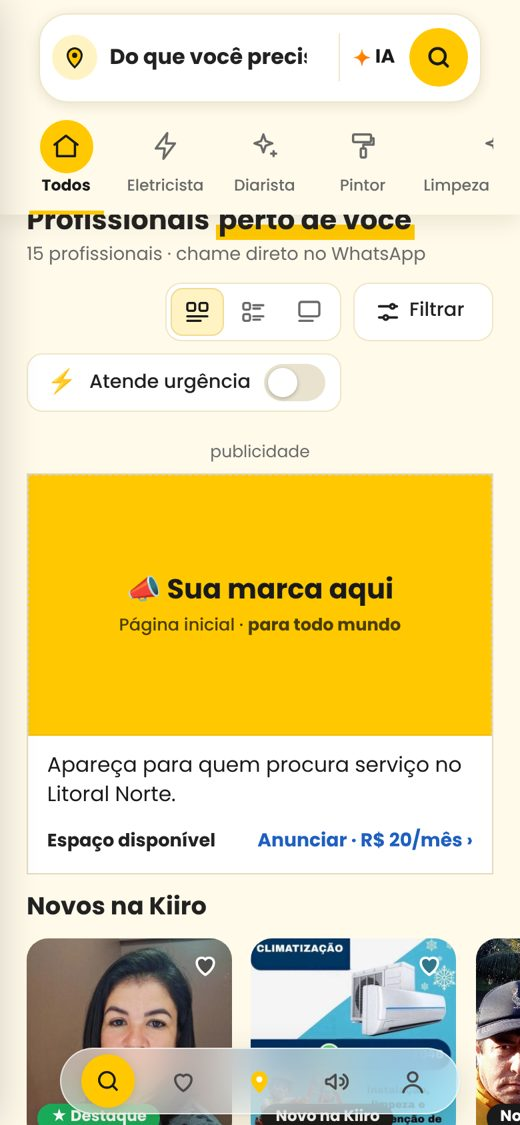
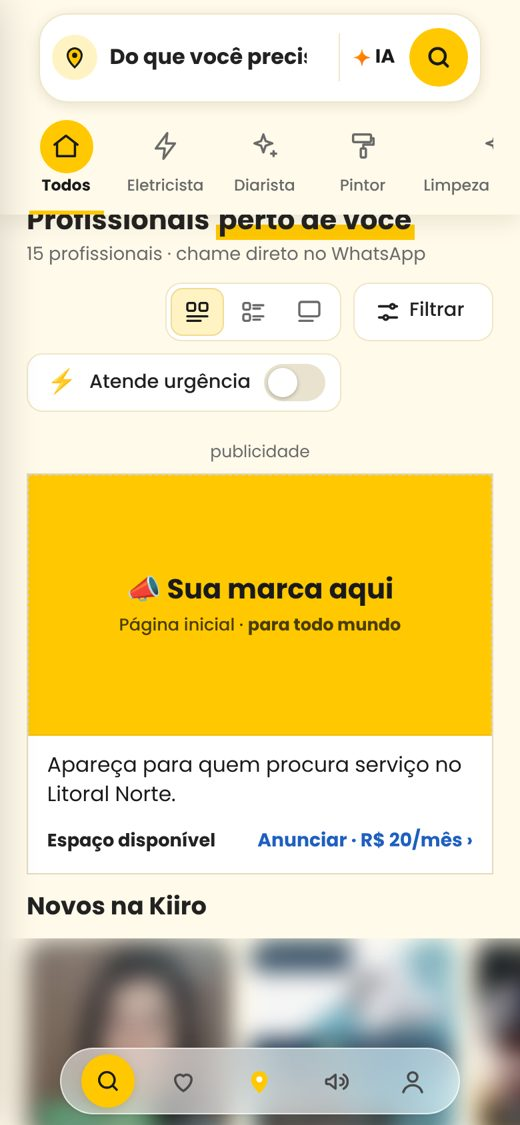
Anunciar: sem profissionais identificáveis nas telas, sem selo no topo, botão flutuante não duplica
Claude-Session: https://claude.ai/code/session_01W4BZaBHAmJ92uV7EnAjwdK

Changed region(s): [[0.0, 0.8089, 1.0, 1.0]]

diff --git a/anunciar.html b/anunciar.html
@@ -175,7 +175,6 @@
 <section class="ads-hero">
   <div class="wrap">
     <div>
-    <span class="tag">PLATAFORMA COMUNITÁRIA</span>
     <h1>Sua empresa na frente de quem <em>precisa agora.</em></h1>
     <p>Na Kiiro, a plataforma comunitária do Litoral Norte, sua empresa <b>aparece para quem está procurando serviço</b>, com botão direto pro seu WhatsApp.</p>
     <a class="btn-quero" href="#monte"><span>→</span>Quero anunciar</a>
@@ -534,7 +533,7 @@ $("form").addEventListener("submit", e => {
   // botão flutuante some perto do formulário e dos botões dos formatos, para não ficar por cima deles
   const vis = new Set();
   const io = new IntersectionObserver(es => { es.forEach(x => x.isIntersecting ? vis.add(x.target) : vis.delete(x.target)); fl.classList.toggle("fora", vis.size > 0); }, { threshold: 0.05 });
-  io.observe($("form")); io.observe($("fmt-card"));
+  io.observe($("form")); io.observe($("fmt-card")); io.observe(document.querySelector(".btn-quero"));
   // quem já veio com ?formato= vai direto para o formulário
   if (pedido) setTimeout(() => $("monte").scrollIntoView(), 50);
 })();
